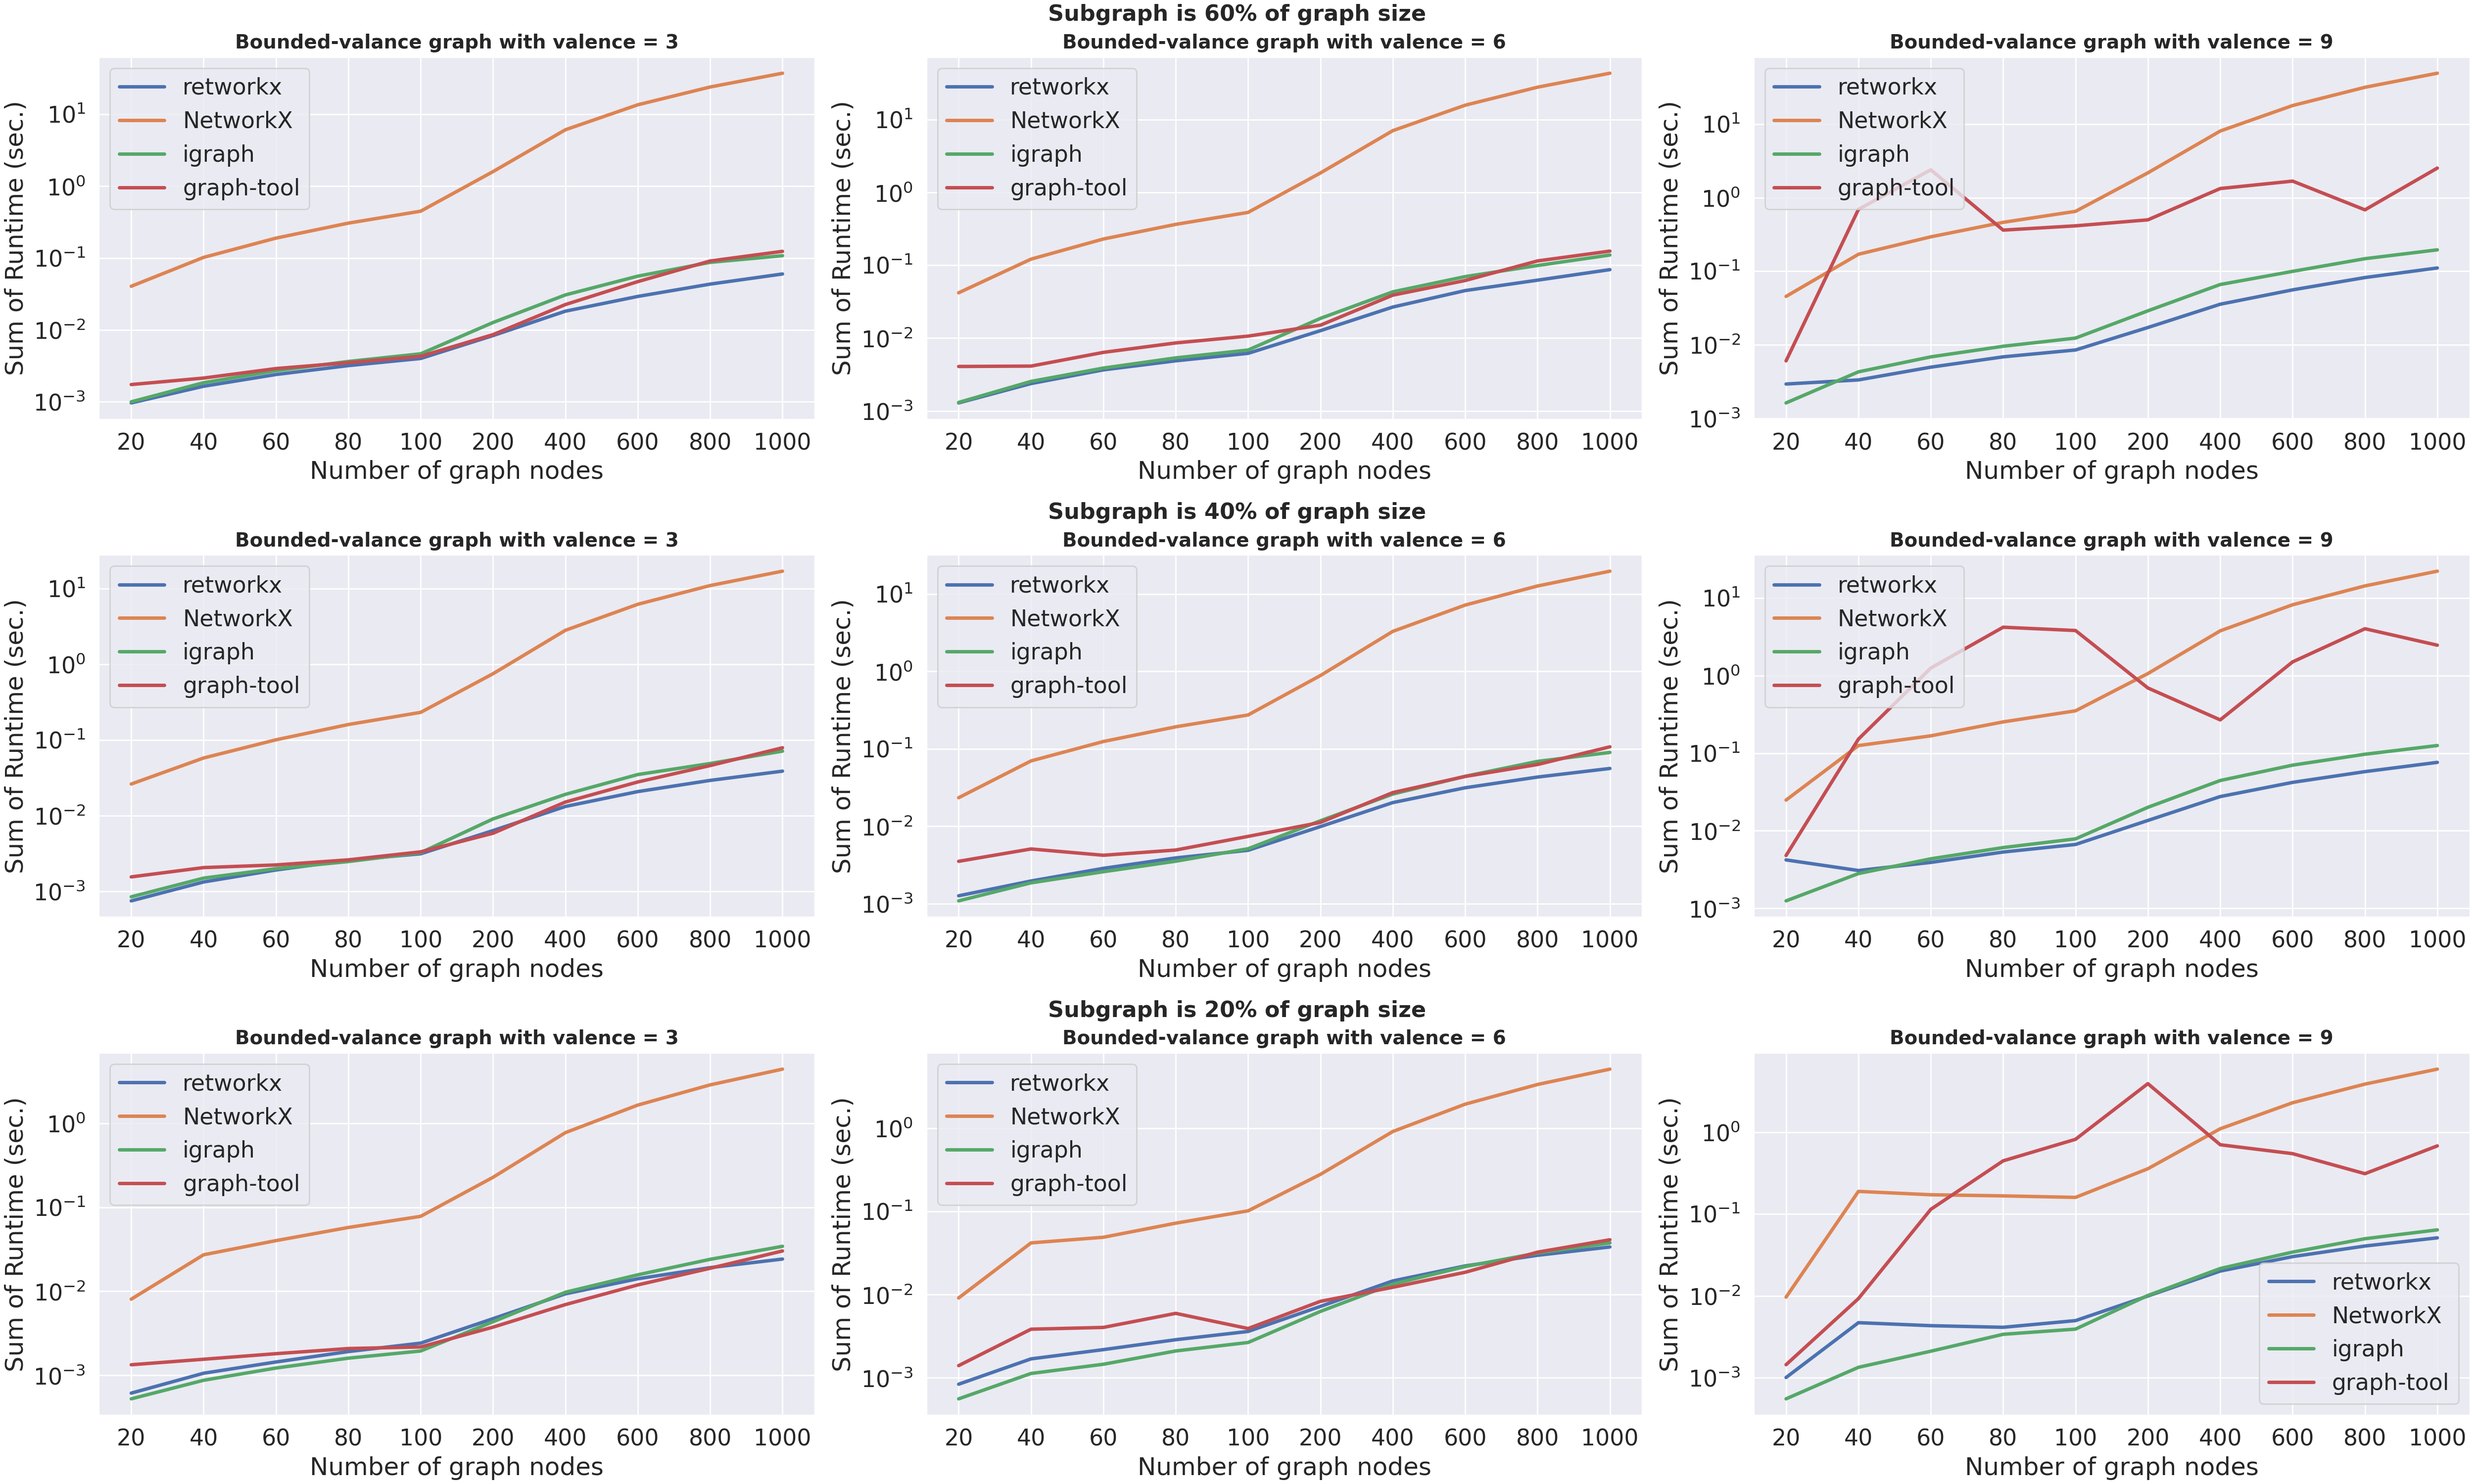
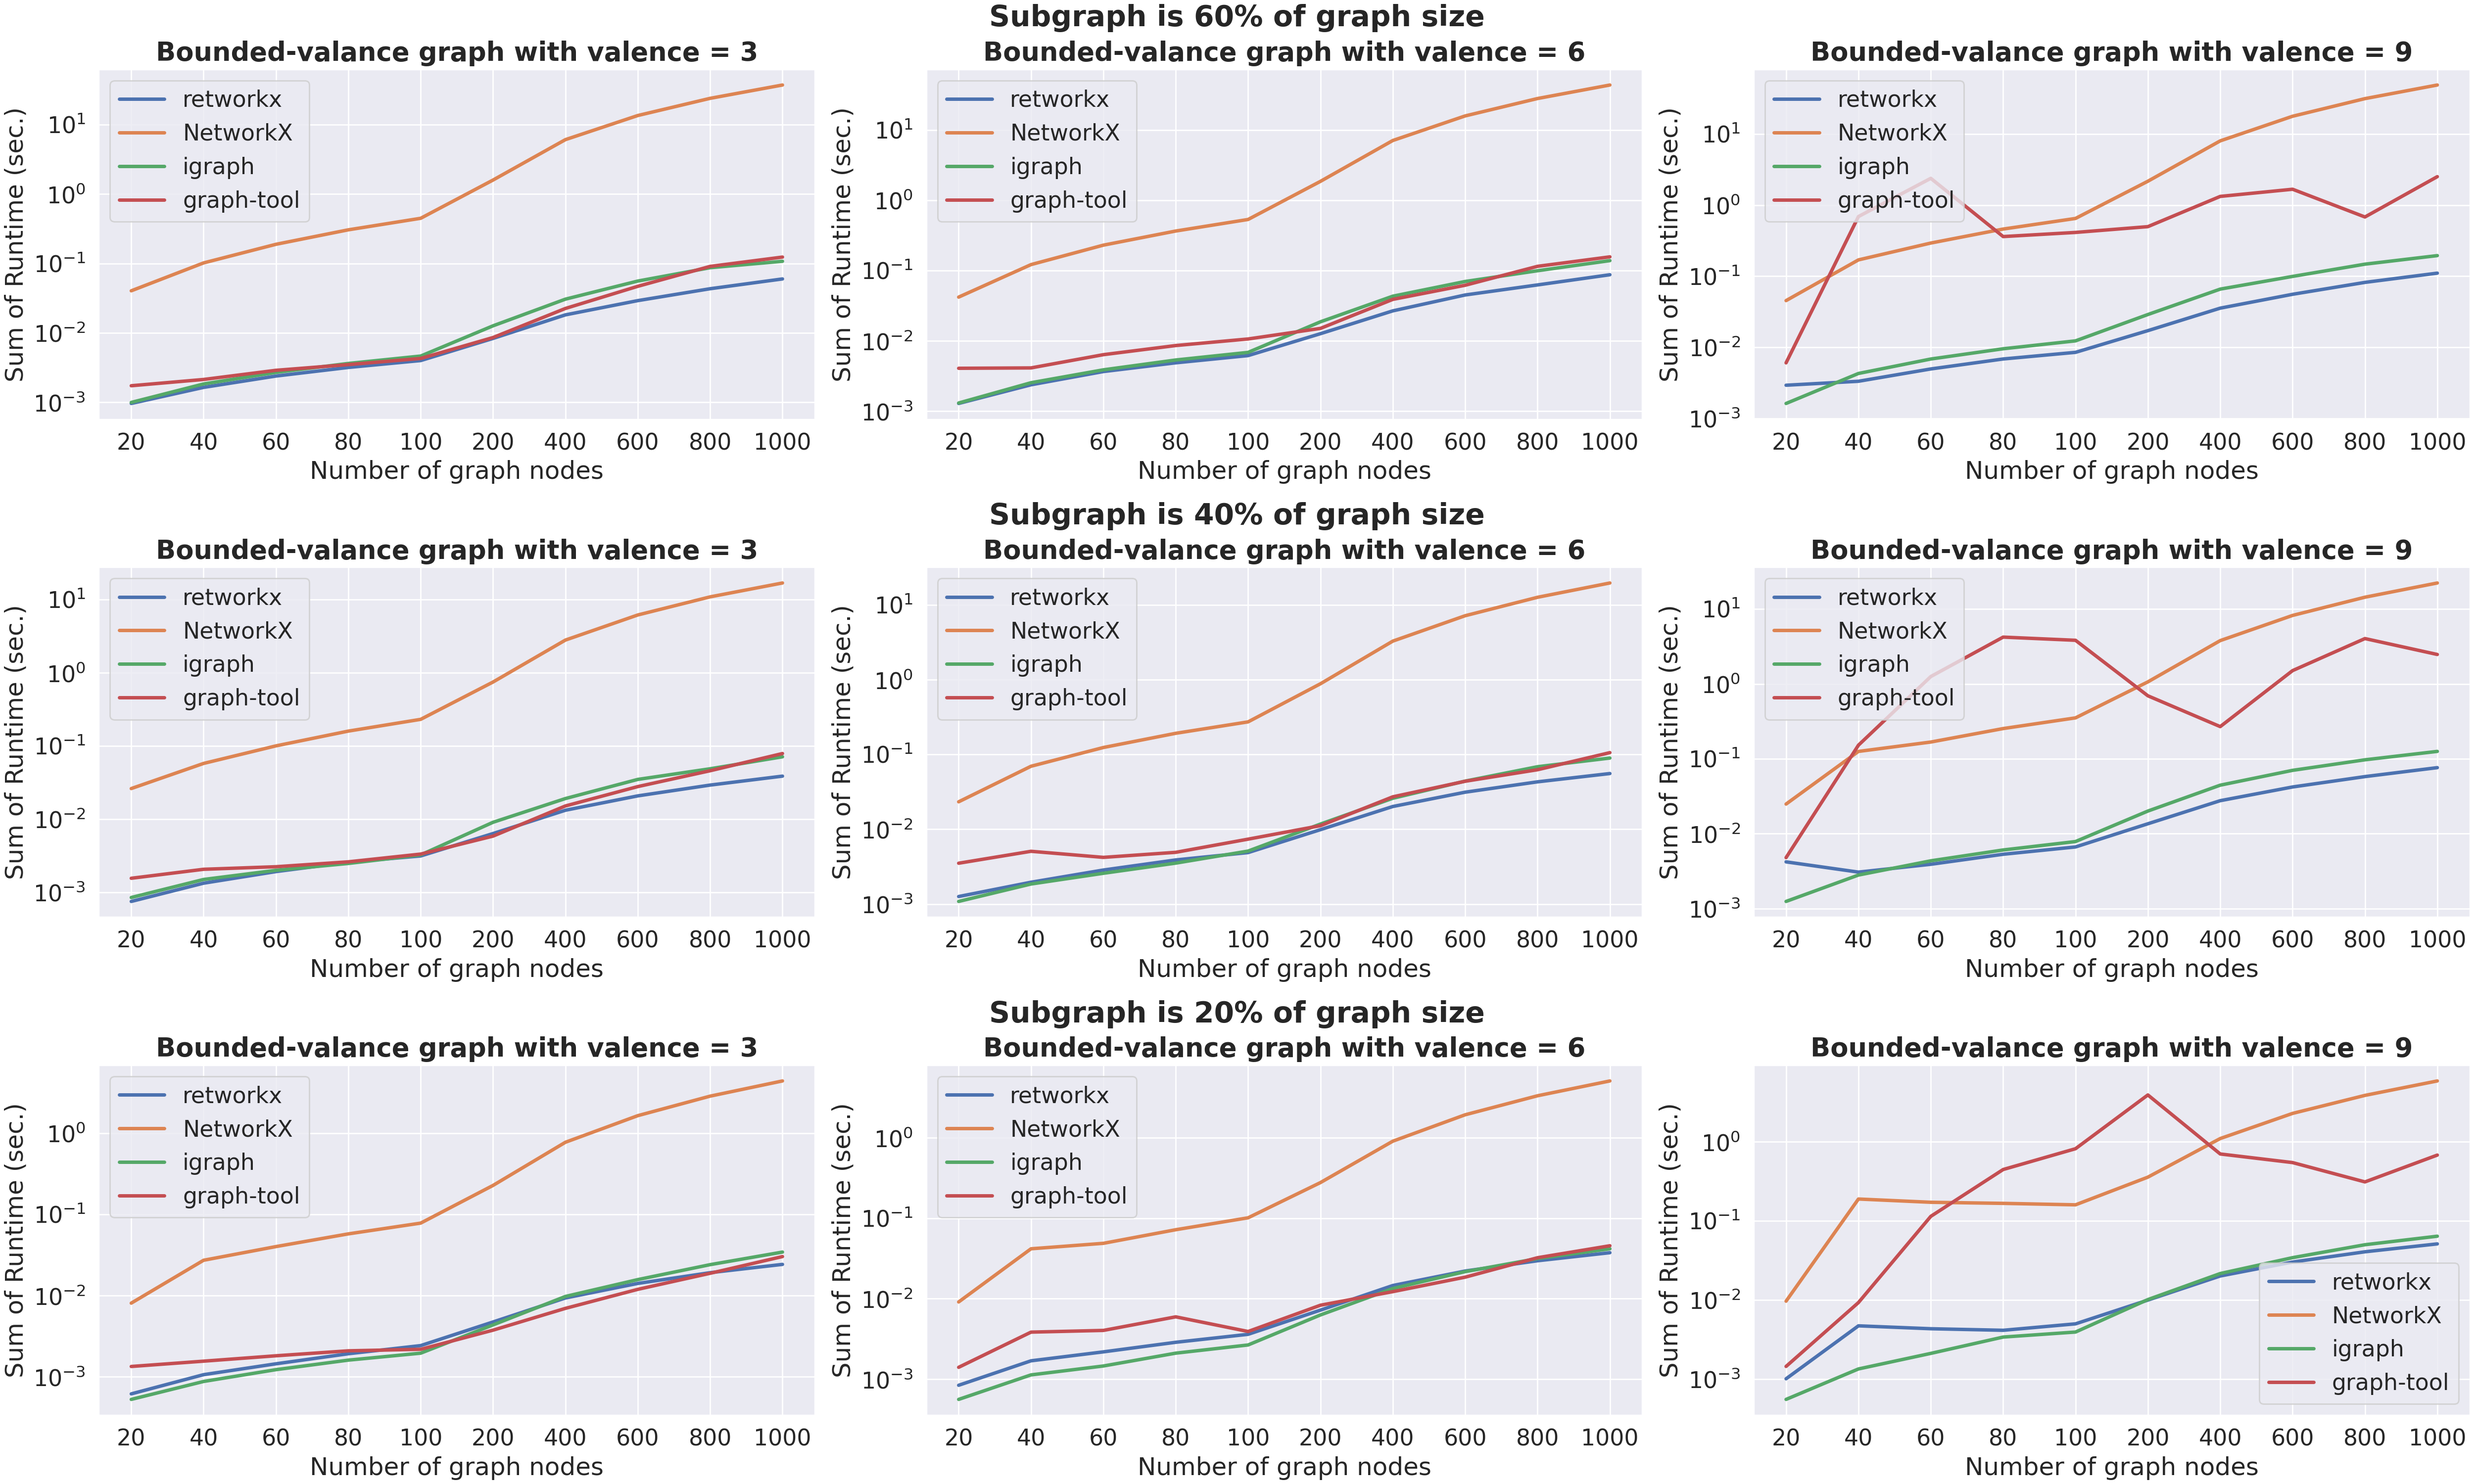
Make title fonts bigger

diff --git a/graph_results.py b/graph_results.py
@@ -347,7 +347,7 @@ def isomorphism_graph():
     subfigs = fig.subfigures(nrows=3, ncols=1)
     for i, percent in enumerate(["si6", "si4", "si2"]):
         subfig = subfigs[i]
-        subfig.suptitle(f"Subgraph is {percent[-1]}0% of graph size", fontsize=16, fontweight="bold")
+        subfig.suptitle(f"Subgraph is {percent[-1]}0% of graph size", fontsize=21, fontweight="bold")
         ax = subfig.subplots(nrows=1, ncols=3)
         for j, valence in enumerate(["b03", "b06", "b09"]):
             indices = []
@@ -371,7 +371,7 @@ def isomorphism_graph():
             ax[j].plot(igraph_data, label="igraph")
             ax[j].plot(graph_tool_data, label="graph-tool")
             ax[j].set_ylabel("Sum of Runtime (sec.)")
-            ax[j].set_title(f"Bounded-valance graph with valence = {valence[-1]}", fontweight="bold", fontsize=14)
+            ax[j].set_title(f"Bounded-valance graph with valence = {valence[-1]}", fontweight="bold", fontsize=19)
             ax[j].set_xlabel("Number of graph nodes")
             ax[j].set_xticks(x)
             ax[j].set_xticklabels(indices)
